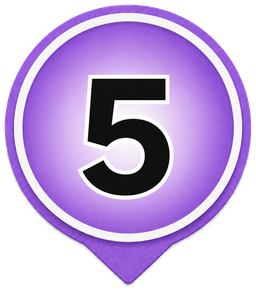
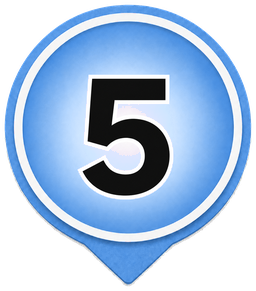
Recolor base pin asset blue

diff --git a/index.html b/index.html
@@ -11,7 +11,7 @@
 
   <link rel="manifest" href="manifest.webmanifest" />
   <link rel="stylesheet" href="https://unpkg.com/leaflet/dist/leaflet.css" />
-  <link rel="stylesheet" href="style.css?v=clean3t" />
+  <link rel="stylesheet" href="style.css?v=clean3u" />
 </head>
 
 <body class="phone-preview">